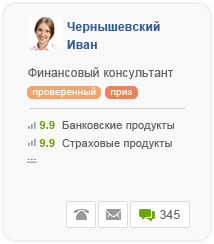
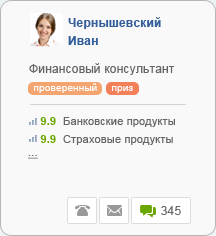
strt

diff --git a/css/screen.css b/css/screen.css
@@ -160,10 +160,14 @@ body em { font-weight: italic; }
 .baner__propose { width: 165px; max-height: 46px; white-space: nowrap; font-size: 13px; line-height: 15px; color: #75922e; overflow: hidden; -ms-text-overflow: ellipsis; text-overflow: ellipsis; }
 .baner__propose p { display: inline; border-bottom: 1px solid #75922e; }
 
-.consultant { position: relative; width: 930px; margin-left: 30px; *zoom: 1; }
+.consultant { position: relative; width: 930px; margin: 0 30px 30px 0; *zoom: 1; }
 .consultant:after { content: " "; display: table; clear: both; }
 
 .consultant__wrap { float: left; }
 
-.consultant__img { width: 214px; height: 244px; margin-right: 20px; }
+.consultant__img { width: 214px; height: 244px; margin-right: 20px; -webkit-border-radius: 10px; border-radius: 10px; -moz-box-shadow: 0px 16px 11px -19px black; -webkit-box-shadow: 0px 16px 11px -19px black; box-shadow: 0px 16px 11px -19px black; }
 .consultant__img:last-child { margin-right: 0; }
+
+.consultant__all { border-top: 2px dashed white; margin-bottom: 20px; padding: 10px 0; text-align: center; }
+.consultant__all a { color: #75922e; margin: 0 auto; border-bottom: 1px solid #75922e; }
+.consultant__all a:hover { border-bottom: 1px solid transparent; }

diff --git a/sass/_main.sass b/sass/_main.sass
@@ -264,7 +264,7 @@
 .consultant
 	position: relative
 	width: 930px
-	margin-left: 30px
+	margin: 0 30px 30px 0
 	+clr
 .consultant__wrap
 	float: left
@@ -272,6 +272,19 @@
 	width: 214px
 	height: 244px
 	margin-right: 20px
+	-webkit-border-radius: 10px
+	border-radius: 10px
+	+box-shadow(0px 16px 11px -19px #000)
 	&:last-child
 		margin-right: 0
-
+.consultant__all
+	border-top: 2px dashed #fff
+	margin-bottom: 20px
+	padding: 10px 0
+	text-align: center
+	a
+		color: #75922E
+		margin: 0 auto
+		border-bottom: 1px solid #75922E
+		&:hover
+			border-bottom: 1px solid transparent

diff --git a/index.html b/index.html
@@ -153,6 +153,9 @@
 					<img class="consultant__img" src="../img/kons.png" alt="">
 					<img class="consultant__img" src="../img/kons.png" alt="">
 			</div> <!-- end consultant -->
+			<div class="consultant__all">
+				<a href="#">Все консультанты →</a>
+			</div>
 		</div> <!-- out -->
 	</div> <!-- main -->
 
